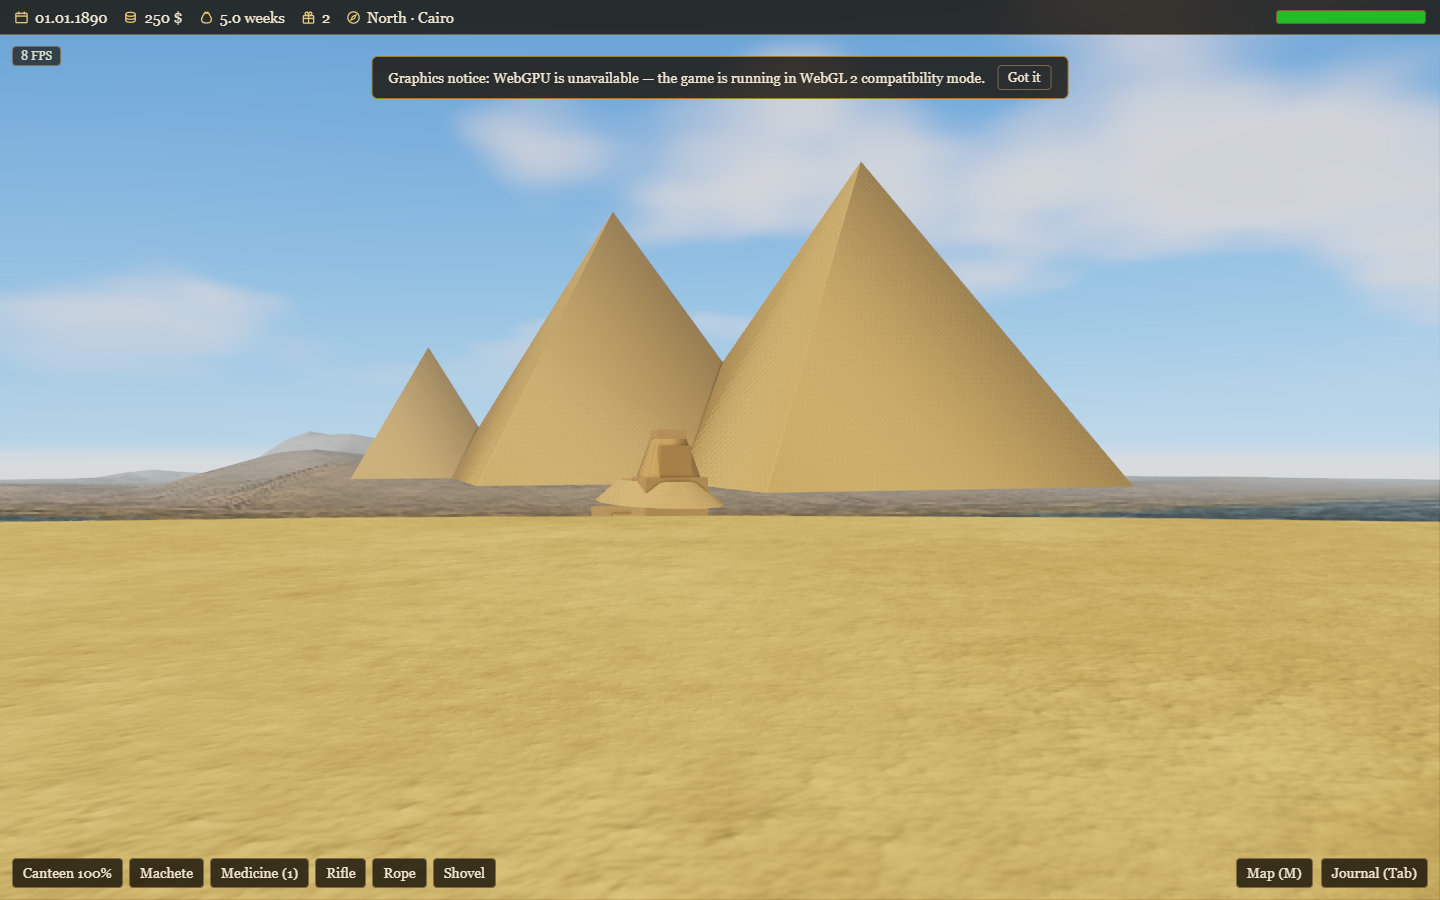
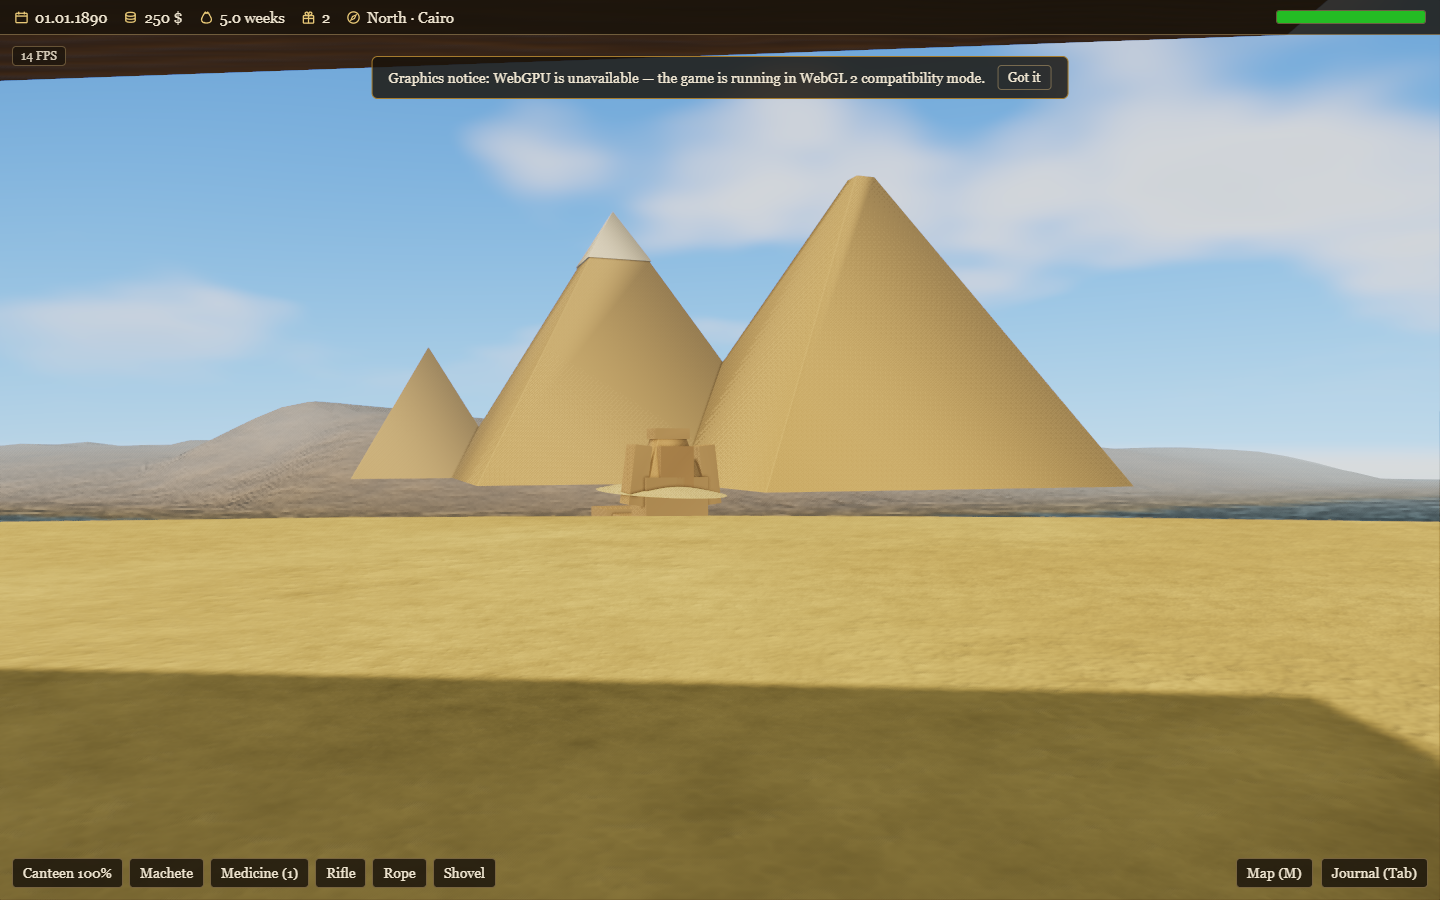
Fix the Giza site's sand ground, buried-Sphinx read and skyline granite band
Three visual defects at the walkable Giza monument site and the Cairo
Giza skyline:

- The walkable plateau now reads as warm, granular DESERT SAND. The
  monument ground uses createGroundMaterial in a new `sand` mode
  (desert-biome-matched tones, muted earth mottling and a finer, softer
  relief grain) instead of the port's pebbled sandy-earth, which on the
  large open disc read as wavy pale parchment.

- The buried Sphinx reads as a couchant lion's nemes-headed head rising
  from banked sand, not a block on a hard seam. The drift is now a soft
  cone whose base circle sits at ground level and whose low apex hides
  behind the chest (no vertical rim to seam or z-fight), tinted to the
  sand ground; the nemes gains its two side lappets framing an enlarged
  face — the recognisable Sphinx cue that was missing at the site's 11x
  scale. Only the head clears the sand (buried to the shoulders, 1890).

- The Cairo skyline / bird's-eye Menkaure no longer shows a red granite
  base band, which read as a floating error stripe at that distant scale
  (the smallest pyramid subtends too few pixels for a base course). The
  granite casing is kept as a CLOSE-RANGE cue only, and there rebuilt as
  a solid, seated lower course rather than an open proud shell.

polish.mjs picture-gates the sand hue and the absence of a red skyline
band; design.md and docs/giza-1890.md updated in lockstep.

diff --git a/src/render/landmarks.ts b/src/render/landmarks.ts
@@ -217,17 +217,17 @@ export function buildGizaPyramids(): THREE.BufferGeometry {
     parts.push(tint(cap, '#e8dcc2', 0.03, 8203))
   }
   {
-    // Menkaure: the smallest, its point intact, but the lower courses cased
-    // in red Aswan granite — a darker band ringing the base, a hair proud of
-    // the core face so the two never z-fight.
+    // Menkaure: the smallest, its point intact. Its lower courses ARE cased in
+    // red Aswan granite in reality (docs/giza-1890.md §1.1), but at this distant
+    // skyline / bird's-eye scale the smallest pyramid subtends only a few pixels
+    // and a red base band read as a floating error stripe rather than granite
+    // casing (user report, point 273). The casing is a close-range cue, so it is
+    // carried ONLY by the walkable-site geometry (gizaSitePyramidParts), where
+    // Menkaure is a giant the traveller stands beside; the distant silhouette
+    // relies on the three-pyramid row and Khafre's cap for recognition.
     const [x, z, b] = [-1.2, 1.2, 0.8]
     const h = b * 0.64 * 2
     parts.push(pyramid(x, z, b, h, 8202))
-    const skirtTop = 0.22 // fraction of the height the granite casing reaches
-    const skirt = new THREE.CylinderGeometry(b * (1 - skirtTop) * 1.02, b * 1.02, h * skirtTop, 4, 1, true)
-    skirt.rotateY(Math.PI / 4)
-    skirt.translate(x, (h * skirtTop) / 2, z)
-    parts.push(tint(skirt, '#96604b', 0.06, 8204))
   }
   // Sphinx east of Khafre, facing east like the real one.
   const sphinx = buildSphinx()
@@ -299,26 +299,48 @@ export function buildSphinx(): THREE.BufferGeometry {
   nemes.rotateY(Math.PI / 4)
   nemes.translate(0.24, 0.55, 0)
   put(nemes, sand, 8218)
-  // Face block proud of the nemes front.
-  const head = new THREE.BoxGeometry(0.14, 0.16, 0.15)
-  head.translate(0.3, 0.55, 0)
+  // Nemes lappets: the two headcloth flaps that hang down each side of the
+  // face. They FRAME the face and are the single most recognisable Sphinx cue
+  // — without them the nemes read as a plain tan block at the walkable site's
+  // 11x scale (point 273). They sit forward and to each side, sloping outward
+  // down to the chest; they widen the head across (in z), never along x, so the
+  // couchant "longer than wide" silhouette and the buried-to-the-shoulders
+  // profile (only the head clears the sand) are untouched.
+  for (const side of [-1, 1]) {
+    const lappet = new THREE.BoxGeometry(0.17, 0.28, 0.08)
+    lappet.rotateX(side * -0.12)
+    lappet.translate(0.28, 0.49, side * 0.17)
+    put(lappet, sand, side < 0 ? 8222 : 8223)
+  }
+  // Face block, set below the crown and between the lappets, proud of the
+  // nemes front — enlarged so it reads as a face, not a bump.
+  const head = new THREE.BoxGeometry(0.16, 0.19, 0.16)
+  head.translate(0.31, 0.53, 0)
   put(head, '#b8905c', 8219)
-  // Flat nemes crown.
-  const crown = new THREE.BoxGeometry(0.14, 0.05, 0.14)
-  crown.translate(0.24, 0.68, 0)
+  // Flat, wide nemes crown capping the headdress.
+  const crown = new THREE.BoxGeometry(0.15, 0.05, 0.17)
+  crown.translate(0.24, 0.685, 0)
   put(crown, sand, 8220)
   // Sink the lion: what remains above the sand is the head under its nemes,
-  // with the shoulders just breaking the surface (see SPHINX_BURIAL_DEPTH).
+  // with the shoulders and upper chest just breaking the surface (see
+  // SPHINX_BURIAL_DEPTH).
   const buried = merge(parts)
   buried.translate(0, -SPHINX_BURIAL_DEPTH, 0)
-  // The drift the body lies in — a low tapered dune, banked ALONG the lion
-  // (squashed across it) so the sand line reads as blown sand rather than as
-  // the lion cut off flat, while the silhouette stays longer than it is wide.
-  // Kept low enough that the shoulders still break its surface.
-  const drift = new THREE.CylinderGeometry(0.38, 0.62, 0.11, 12, 1)
-  drift.scale(1, 1, 0.45)
-  drift.translate(0.05, 0.005, 0)
-  return merge([buried, tint(drift, '#c9a670', 0.05, 8221)])
+  // The wind-blown sand the body lies in — a soft, low dune banked ALONG the
+  // lion (squashed across it, so the mound stays longer than it is wide) that
+  // rises to meet the emerging chest and FEATHERS to nothing at its rim. It is
+  // a CONE whose base circle sits exactly at ground level (y = 0) and whose low
+  // apex hides behind the chest: the old build was a flat-topped cylinder whose
+  // vertical rim read as a hard disc with a seam (the "looks like an error"
+  // lower part, point 273). With no vertical face there is no seam and nothing
+  // to z-fight, and the 28-segment rim reads as a smooth dune edge. Tinted to
+  // the walkable site's warm desert-sand ground so the drift is of a piece with
+  // the surrounding sand rather than a foreign-coloured patch.
+  const drift = new THREE.ConeGeometry(0.74, 0.07, 28, 1, true)
+  drift.translate(0, 0.035, 0) // base circle down to y = 0, apex at y = 0.07
+  drift.scale(1, 1, 0.35) // banked ALONG the lion (clearly longer than wide)
+  drift.translate(0.04, 0, 0) // centred just forward, under the chest/shoulders
+  return merge([buried, tint(drift, '#dcc48a', 0.05, 8221)])
 }
 
 /** One great pyramid at the WALKABLE Giza site (design.md §4.4, point 273):
@@ -365,10 +387,16 @@ function gizaSitePyramidParts(p: GizaPyramid, seed: number): THREE.BufferGeometr
     parts.push(tint(cone, core, 0.09, seed))
   }
   if (p.skirt) {
-    // The red Aswan-granite lower casing: a darker band ringing the base, a
-    // hair proud of the core face so the two never z-fight.
+    // The red Aswan-granite lower casing (docs/giza-1890.md §1.1): a SOLID
+    // seated base course, not an open ringing band. It follows the pyramid's
+    // own slope (its radii match the core at the ground and at its top edge) and
+    // stands a hair proud so it reads as the cased outer face — capped, so it
+    // has a real top course rather than a floating shell edge that z-fights or
+    // reads as an error stripe (point 273). This close-range cue is the ONLY
+    // place the granite is drawn; the distant skyline/bird's-eye Menkaure omits
+    // it (see buildGizaPyramids).
     const skirtTop = 0.22
-    const skirt = new THREE.CylinderGeometry(b * (1 - skirtTop) * 1.02, b * 1.02, h * skirtTop, 4, 1, true)
+    const skirt = new THREE.CylinderGeometry(b * (1 - skirtTop) * 1.02, b * 1.02, h * skirtTop, 4, 1, false)
     skirt.rotateY(Math.PI / 4)
     skirt.translate(x, y0 + (h * skirtTop) / 2, z)
     parts.push(tint(skirt, '#96604b', 0.06, seed + 7))

diff --git a/src/render/landmarks.test.ts b/src/render/landmarks.test.ts
@@ -91,14 +91,17 @@ describe('landmark builders', () => {
     geo.dispose()
   })
 
-  it("Giza carries its 1890 casing cues: blunt Khufu, Khafre's pale cap, Menkaure's granite base (point 279)", () => {
+  it("Giza carries its 1890 casing cues at skyline scale: blunt Khufu, Khafre's pale cap, no Menkaure error band (point 273)", () => {
     // docs/giza-1890.md §1.1-§1.2/§3: all three lost their smooth Tura casing
     // to centuries of quarrying; Khufu's apex and top courses are gone (a
     // small flat platform, not a point); Khafre ALONE keeps a cap of original
     // smooth casing near its apex — the single most useful visual cue on the
-    // plateau; and Menkaure's lower courses are cased in darker red Aswan
-    // granite. The regression this pins is the three identical tawny sharp
-    // cones the builder used to make.
+    // plateau. Menkaure's lower courses ARE red Aswan granite in reality, but
+    // at this distant skyline / bird's-eye scale the smallest pyramid subtends
+    // a few pixels and a red base band read as a floating error stripe (user
+    // report, point 273), so it is carried ONLY by the close-range walkable-
+    // site geometry. This test pins BOTH the original regression (three
+    // identical tawny sharp cones) and the new one (no red band at skyline).
     const geo = buildGizaPyramids()
     const pos = geo.getAttribute('position') as THREE.BufferAttribute
     const col = geo.getAttribute('color') as THREE.BufferAttribute
@@ -133,19 +136,17 @@ describe('landmark builders', () => {
       expect(pos.getY(i), 'pale casing only near the apex').toBeGreaterThan(khafreH * 0.7)
     }
     expect(pale, 'the casing cap exists').toBeGreaterThan(0)
-    // Menkaure (SW, smallest): the red-granite band exists — red-dominant,
-    // and ONLY around Menkaure's base (linear sums again: granite tops out
-    // ~0.52 while the darkest other part, the Sphinx face, stays above 0.8).
-    let granite = 0
+    // Menkaure (SW, smallest): NO dark red band at skyline scale — the granite
+    // casing is a close-range cue only (it read as a floating error stripe out
+    // here). Nothing on the whole skyline is both dark (linear sum < 0.6) and
+    // red-dominant; the tawny cores and the Sphinx face all sit brighter.
+    let redBand = 0
     for (let i = 0; i < pos.count; i++) {
       const bright = col.getX(i) + col.getY(i) + col.getZ(i)
       if (bright >= 0.6) continue
-      granite++
-      expect(Math.hypot(pos.getX(i) + 1.2, pos.getZ(i) - 1.2), 'granite only on Menkaure').toBeLessThan(1.0)
-      expect(pos.getY(i), 'granite only at the base').toBeLessThan(0.3)
-      expect(col.getX(i), 'red granite, not soot').toBeGreaterThan(col.getZ(i) * 1.5)
+      if (col.getX(i) > col.getZ(i) * 1.5) redBand++
     }
-    expect(granite, 'the granite band exists').toBeGreaterThan(0)
+    expect(redBand, 'no red granite error band at skyline scale').toBe(0)
     geo.dispose()
   })
 

diff --git a/src/scenes/place/PlaceScene.tsx b/src/scenes/place/PlaceScene.tsx
@@ -161,7 +161,12 @@ function usePathTexture(paths: PathDef[] | null): THREE.CanvasTexture | null {
   }, [paths])
 }
 
-function usePlaceMaterials(isPort: boolean, style: RegionPlaceStyle, pathTex: THREE.Texture | null) {
+function usePlaceMaterials(
+  isPort: boolean,
+  isMonument: boolean,
+  style: RegionPlaceStyle,
+  pathTex: THREE.Texture | null,
+) {
   // Debug diagnosis (point 111): swap the ground for a plain material to see
   // whether a WebGPU-only black patch comes from the TSL ground node material.
   const flatGround = useUi((s) => s.groundDebugFlat)
@@ -180,12 +185,21 @@ function usePlaceMaterials(isPort: boolean, style: RegionPlaceStyle, pathTex: TH
       ? { mask: pathTex, color: isPort ? '#bfa070' : style.pathColor, extent: PATH_MASK_EXTENT }
       : undefined
     const ground = flatGround
-      ? new THREE.MeshStandardMaterial({ color: isPort ? '#dcc99c' : style.ground[0], roughness: 1, metalness: 0 })
-      : isPort
-        ? createGroundMaterial('#dcc99c', '#c4ad7c', '#b59a6b', pathOpts)
-        : createGroundMaterial(style.ground[0], style.ground[1], style.ground[2], pathOpts)
+      ? new THREE.MeshStandardMaterial({
+          color: isMonument ? '#e0c489' : isPort ? '#dcc99c' : style.ground[0],
+          roughness: 1,
+          metalness: 0,
+        })
+      : isMonument
+        ? // The walkable Giza plateau: warm, granular DESERT SAND (matched to
+          // the travel desert biome), not the port's pebbled sandy earth
+          // (point 273) — the `sand` mode mutes the earth mottling.
+          createGroundMaterial('#e0c489', '#d3b578', '#c2a05e', pathOpts, { sand: true })
+        : isPort
+          ? createGroundMaterial('#dcc99c', '#c4ad7c', '#b59a6b', pathOpts)
+          : createGroundMaterial(style.ground[0], style.ground[1], style.ground[2], pathOpts)
     return { plaster, plasterDark, mud, thatch, wood, cloth, ground }
-  }, [isPort, style, pathTex, flatGround])
+  }, [isPort, isMonument, style, pathTex, flatGround])
 }
 
 type PlaceMaterials = ReturnType<typeof usePlaceMaterials>
@@ -1842,7 +1856,7 @@ export function PlaceScene() {
     return marketPlentyAt(place.peopleId, useGame.getState().day, START_YEAR)
   }, [placeId])
   const pathTex = usePathTexture(layout?.paths ?? null)
-  const mats = usePlaceMaterials(sandy, style, pathTex)
+  const mats = usePlaceMaterials(sandy, isMonument, style, pathTex)
   const floraGeos = useMemo<Record<FloraSpecies, THREE.BufferGeometry>>(
     () => ({ palm: buildPalm(true), acacia: buildAcacia(), jungle: buildJungleTree(), bush: buildBush() }),
     [],

diff --git a/src/render/materials.ts b/src/render/materials.ts
@@ -295,7 +295,14 @@ export function createGroundMaterial(
   alt: string,
   patch: string,
   paths?: GroundPathOptions,
+  opts?: { sand?: boolean },
 ): THREE.MeshStandardNodeMaterial {
+  // Desert-sand ground (the walkable Giza plateau, point 273) reads as even,
+  // warm, granular sand — NOT the blotchy pebbled earth the settlements use.
+  // Over a large open disc that earth mottling read as wavy pale parchment
+  // (user report), so for sand the broad tonal drift and the dark Worley patch
+  // are muted and the baked relief is softened to a fine even grain.
+  const sand = opts?.sand ?? false
   const m = new THREE.MeshStandardNodeMaterial()
   m.roughness = 1
   m.metalness = 0
@@ -308,7 +315,7 @@ export function createGroundMaterial(
   // WebGL 2 path never showed (point 111).
   const cells = mx_worley_noise_float(vec3(p.mul(0.22), 9.0)).clamp(0, 1)
   let col = mix(color(base), color(alt), large.clamp(0, 1))
-  col = mix(col, color(patch), cells.oneMinus().pow(3).mul(0.5))
+  col = mix(col, color(patch), cells.oneMinus().pow(3).mul(sand ? 0.14 : 0.5))
   const pathMask = (() => {
     if (!paths) return float(0)
     // Mask canvas maps the square ±extent around the place origin.
@@ -332,8 +339,9 @@ export function createGroundMaterial(
   // glossier as the storm soaks it, driven by the shared GROUND_WET_U uniform.
   m.colorNode = wetGroundColor(seasonTintNode(col).mul(surfaceStructure('ground')))
   // Baked micro-relief; trodden paths are worn flat (the tangent deflection
-  // fades where the mask is strong).
-  m.normalNode = surfaceNormal('ground', pathMask.oneMinus().mul(0.85).add(0.15))
+  // fades where the mask is strong). Sand keeps a softer, finer grain so the
+  // open plateau reads as smooth desert sand rather than a pebbled field.
+  m.normalNode = surfaceNormal('ground', pathMask.oneMinus().mul(sand ? 0.4 : 0.85).add(0.15))
   // Wet gloss: the base roughness (1) pulls down toward a sheen with the wet
   // factor, so the micro-relief normals catch a highlight. `m.roughness` stays
   // its scalar default — the node overrides it.

diff --git a/design.md b/design.md
@@ -131,7 +131,7 @@ Built cultural landmarks — the game's structures among the otherwise natural l
 
 Two further landmarks live in their port's first-person scene rather than on the travel map (a map marker would duplicate the port marker): Table Mountain stands as a flat-topped massif skyline behind Cape Town, and the Djinguereber mosque (the authentic 1327 Sudano-Sahelian mud landmark, standing in for the excluded 1907 Djenné mosque) rises inside Timbuktu's town fabric — buttressed mud walls and a pyramidal toron-studded minaret, impenetrable like every building (§2.6).
 
-The Giza plateau is also an ENTERABLE monument site — a walkable first-person scene, like a settlement but with no trade, elder or hints, reached with the SPACE use key exactly like a settlement (§2.3): its own map point south-west of Cairo (the map scale cannot resolve the real 13 km, so it is placed clear of the city's enter radius), known from the start and marked with a three-pyramid glyph. Inside, the traveller stands before and walks AROUND the three great pyramids and the Great Sphinx as GIANT collidable monuments (the §2.6 settlement collision reused). The ~1890 state is rendered faithfully (researched in docs/giza-1890.md): the three pyramids stand in their real south-west diagonal row — Khufu largest in the north-east, Khafre in the centre raised on higher bedrock (so it reads as tall as Khufu) and alone keeping a pale cap of surviving Tura-limestone casing near its apex, Menkaure smallest in the south-west with a red Aswan-granite skirt at its base; Khufu's apex and top courses are quarried away, leaving a blunt flat summit; and the Great Sphinx crouches east of Khafre, facing east, buried to the shoulders in wind-blown sand and noseless, as a ~1890 expedition found it (rendering the fully-cleared modern monument would be a ~35-year anachronism). The site is lightly peopled with sparse Thomas-Cook-era ambient life — robed guides/dragomen, a Bedouin cameleer, a donkey-boy and a few 1890s tourists, with their camels and donkeys — a handful, not a throng. The same period-correct casing cap and half-buried Sphinx are carried into Cairo's western skyline and the bird's-eye Giza landmark (§4.4/point 82). Myths are excluded (no pharaoh's curse, no mystic alignment, no Napoleon's-cannon nose). The pyramids stay clearly distinct from the game's Meroë (Nubian) pyramids: Giza is a few huge, shallow ~52° masses; Meroë a dense cluster of small, steep ~70° cones.
+The Giza plateau is also an ENTERABLE monument site — a walkable first-person scene, like a settlement but with no trade, elder or hints, reached with the SPACE use key exactly like a settlement (§2.3): its own map point south-west of Cairo (the map scale cannot resolve the real 13 km, so it is placed clear of the city's enter radius), known from the start and marked with a three-pyramid glyph. Inside, the traveller stands before and walks AROUND the three great pyramids and the Great Sphinx as GIANT collidable monuments (the §2.6 settlement collision reused). The ~1890 state is rendered faithfully (researched in docs/giza-1890.md): the three pyramids stand in their real south-west diagonal row — Khufu largest in the north-east, Khafre in the centre raised on higher bedrock (so it reads as tall as Khufu) and alone keeping a pale cap of surviving Tura-limestone casing near its apex, Menkaure smallest in the south-west with a red Aswan-granite base casing (a solid, seated lower course, not a floating band); Khufu's apex and top courses are quarried away, leaving a blunt flat summit; and the Great Sphinx crouches east of Khafre, facing east, buried to the shoulders in wind-blown sand and noseless, as a ~1890 expedition found it (rendering the fully-cleared modern monument would be a ~35-year anachronism) — its nemes headdress with the two side lappets framing the face reads as the couchant lion's head rising from a soft banked sand drift, not a block on a hard sand seam. The site ground reads as warm, granular desert sand. The site is lightly peopled with sparse Thomas-Cook-era ambient life — robed guides/dragomen, a Bedouin cameleer, a donkey-boy and a few 1890s tourists, with their camels and donkeys — a handful, not a throng. The period-correct casing cap and half-buried Sphinx are carried into Cairo's western skyline and the bird's-eye Giza landmark (§4.4/point 82); Menkaure's red-granite casing is a CLOSE-RANGE cue only — at the distant skyline / bird's-eye scale the smallest pyramid subtends too few pixels for a base course and a red band there read as an error stripe, so it is drawn only in the walkable site. Myths are excluded (no pharaoh's curse, no mystic alignment, no Napoleon's-cannon nose). The pyramids stay clearly distinct from the game's Meroë (Nubian) pyramids: Giza is a few huge, shallow ~52° masses; Meroë a dense cluster of small, steep ~70° cones.
 
 ### 4.5 Region Assignment
 | Region | Landscape | Peoples |

diff --git a/docs/giza-1890.md b/docs/giza-1890.md
@@ -203,7 +203,13 @@ tests' anchors.
    read the two casing-stripped pyramids as **slightly stepped and flat/blunt at
    the apex** (Khufu's top is missing) rather than as sharp smooth points, and
    give **Menkaure a darker granite skirt** at its base. Reinforces the
-   casing-vs-core story and the Giza-vs-Meroë tonal contrast.
+   casing-vs-core story and the Giza-vs-Meroë tonal contrast. *Implementation
+   note (point 273):* the granite skirt is drawn as a **solid, seated lower
+   course** (not an open proud band that z-fights) and **only at the walkable
+   close range** — at the distant skyline / bird's-eye scale the smallest
+   pyramid subtends too few pixels for a base course, and a red band there read
+   as a floating error stripe, so `buildGizaPyramids` omits it while
+   `gizaSitePyramidParts` keeps it.
 
 **Bird's-eye view specifically:** the same three refinements apply — at travel
 zoom the **Khafre cap** and the **squat ~52° profile** are what make the cluster
@@ -286,8 +292,10 @@ place — no new landmark, no test-anchor changes.
 - **Khafre / Chephren:** second, on **higher ground so it reads as tall**; its
   signature **smooth pale limestone CAP near the apex** on the stepped core — the
   one must-have new cue. Same ~52–53° profile.
-- **Menkaure / Mykerinos:** clearly the **smallest** (~0.45× Khufu); optional
-  **darker granite skirt** at the base.
+- **Menkaure / Mykerinos:** clearly the **smallest** (~0.45× Khufu). Its
+  **darker granite base casing** is a **close-range cue only** (walkable site) —
+  at the distant skyline / bird's-eye scale it reads as a floating red error
+  stripe, so it is omitted there (point 273).
 - **Great Sphinx:** couchant lion + **nemes**-headed human face, facing **east**,
   **noseless**; **buried to the shoulders** — only head, nemes and upper chest
   above a sand line, paws/body/enclosure under sand (the period sand line; do
